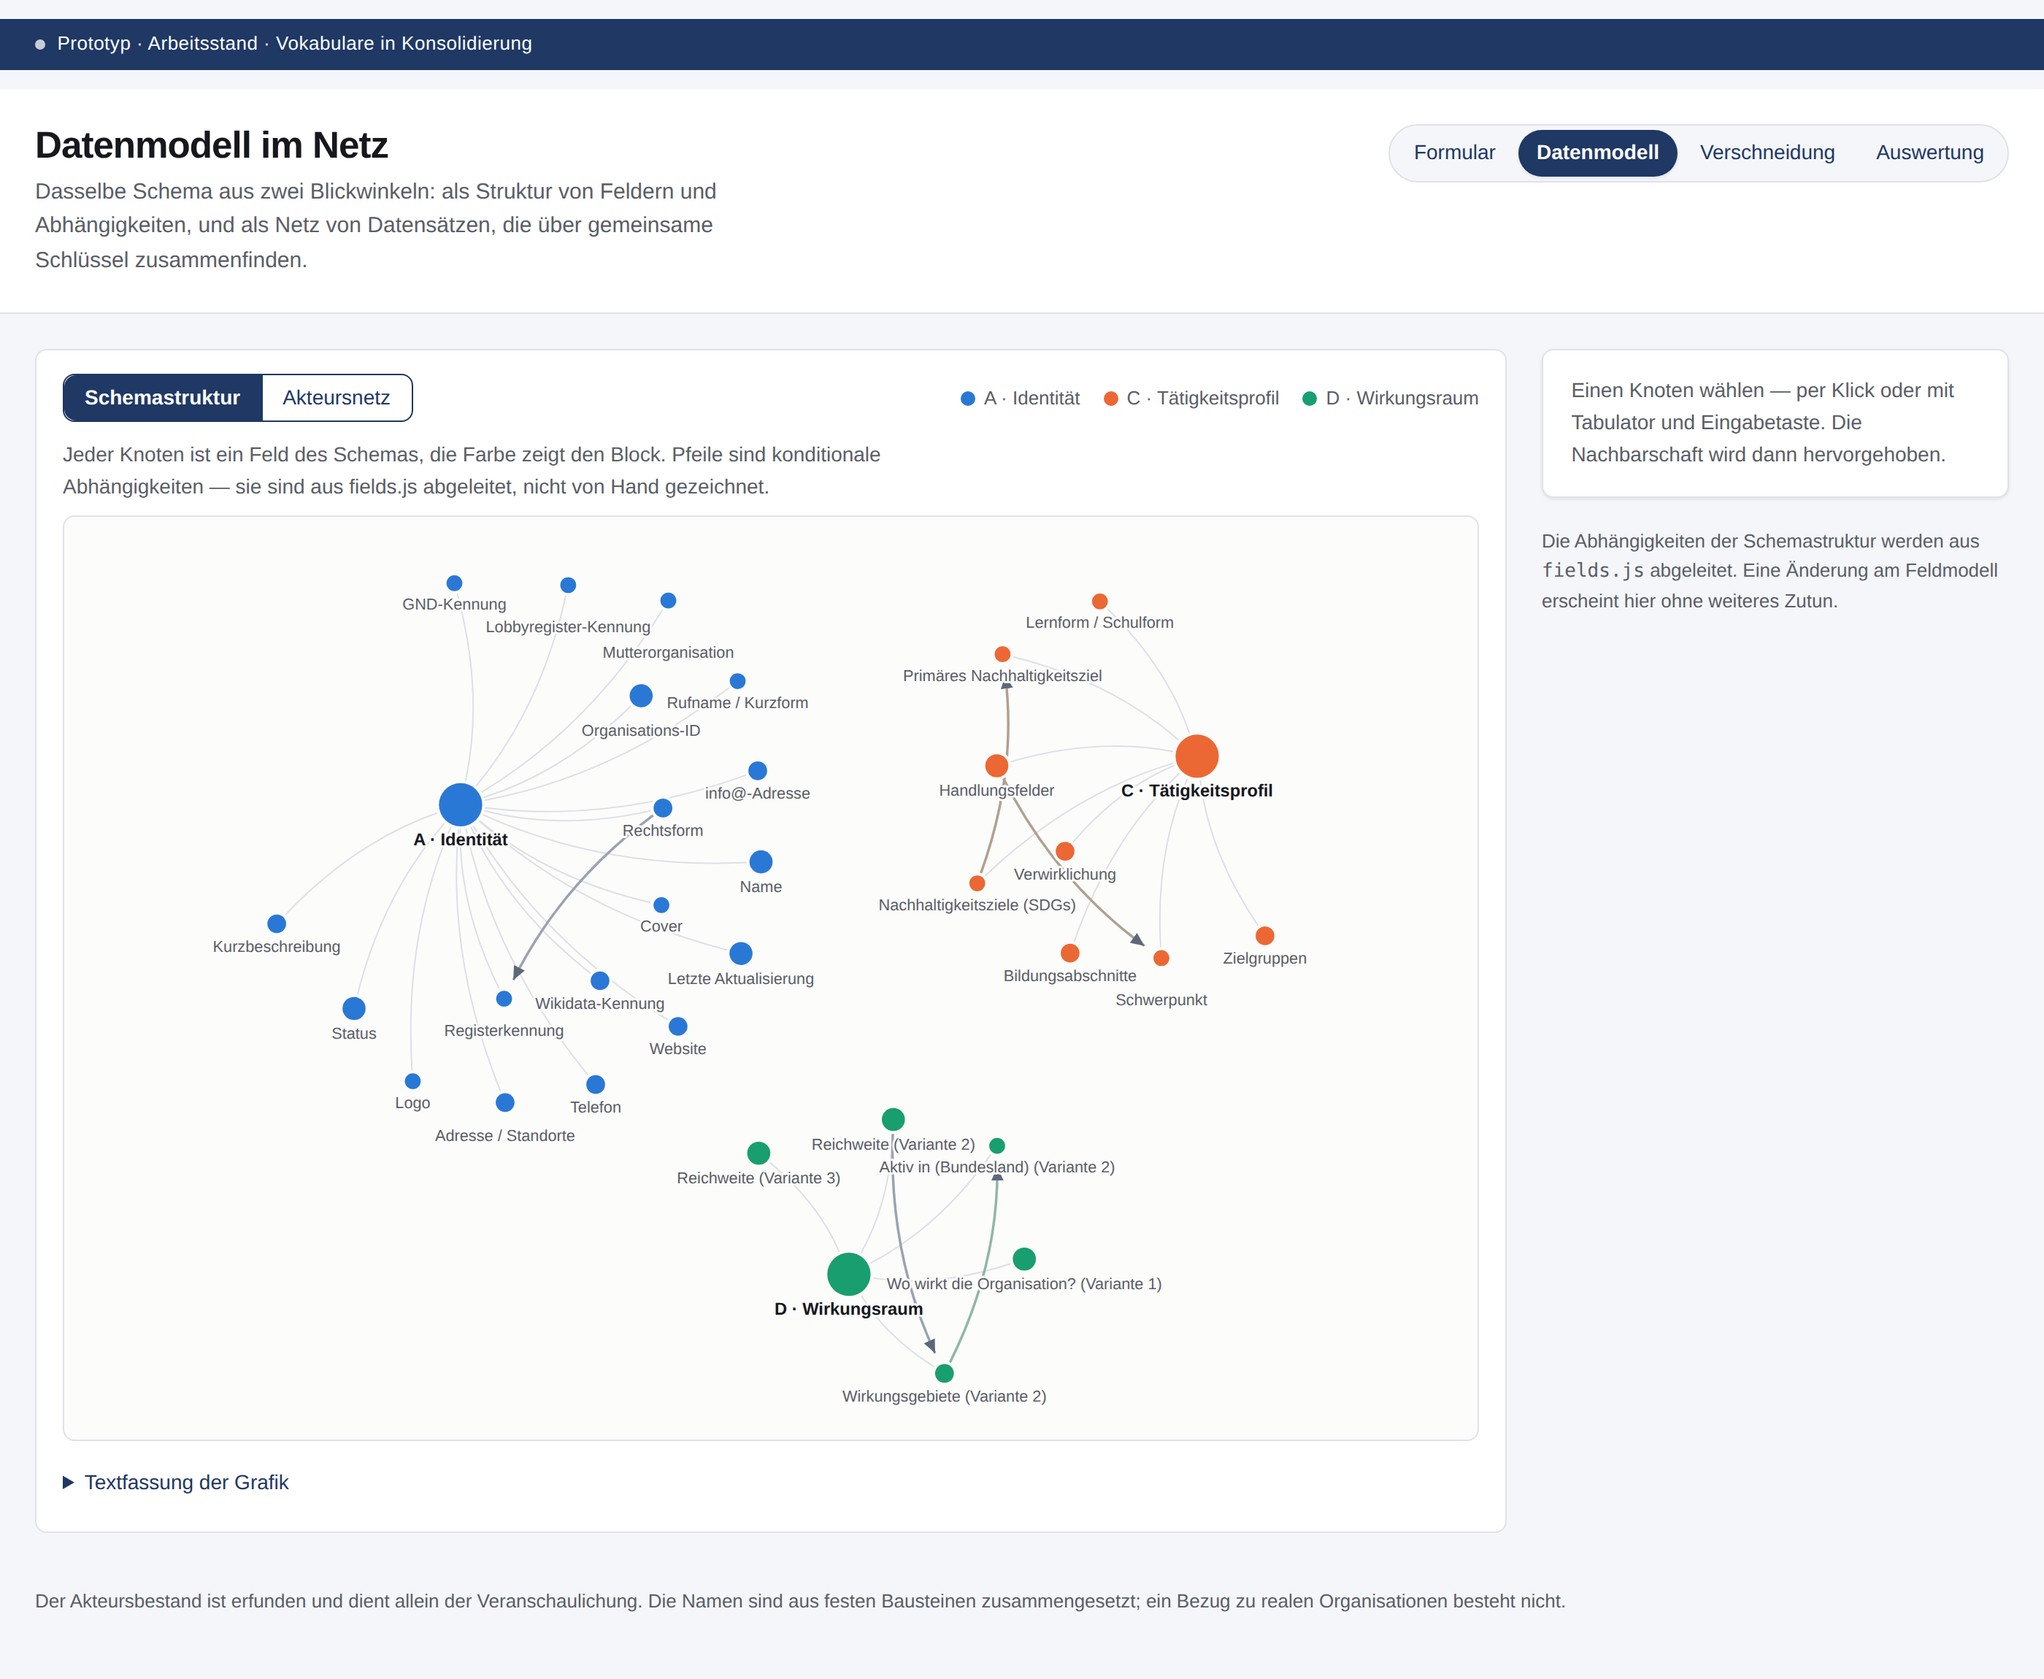
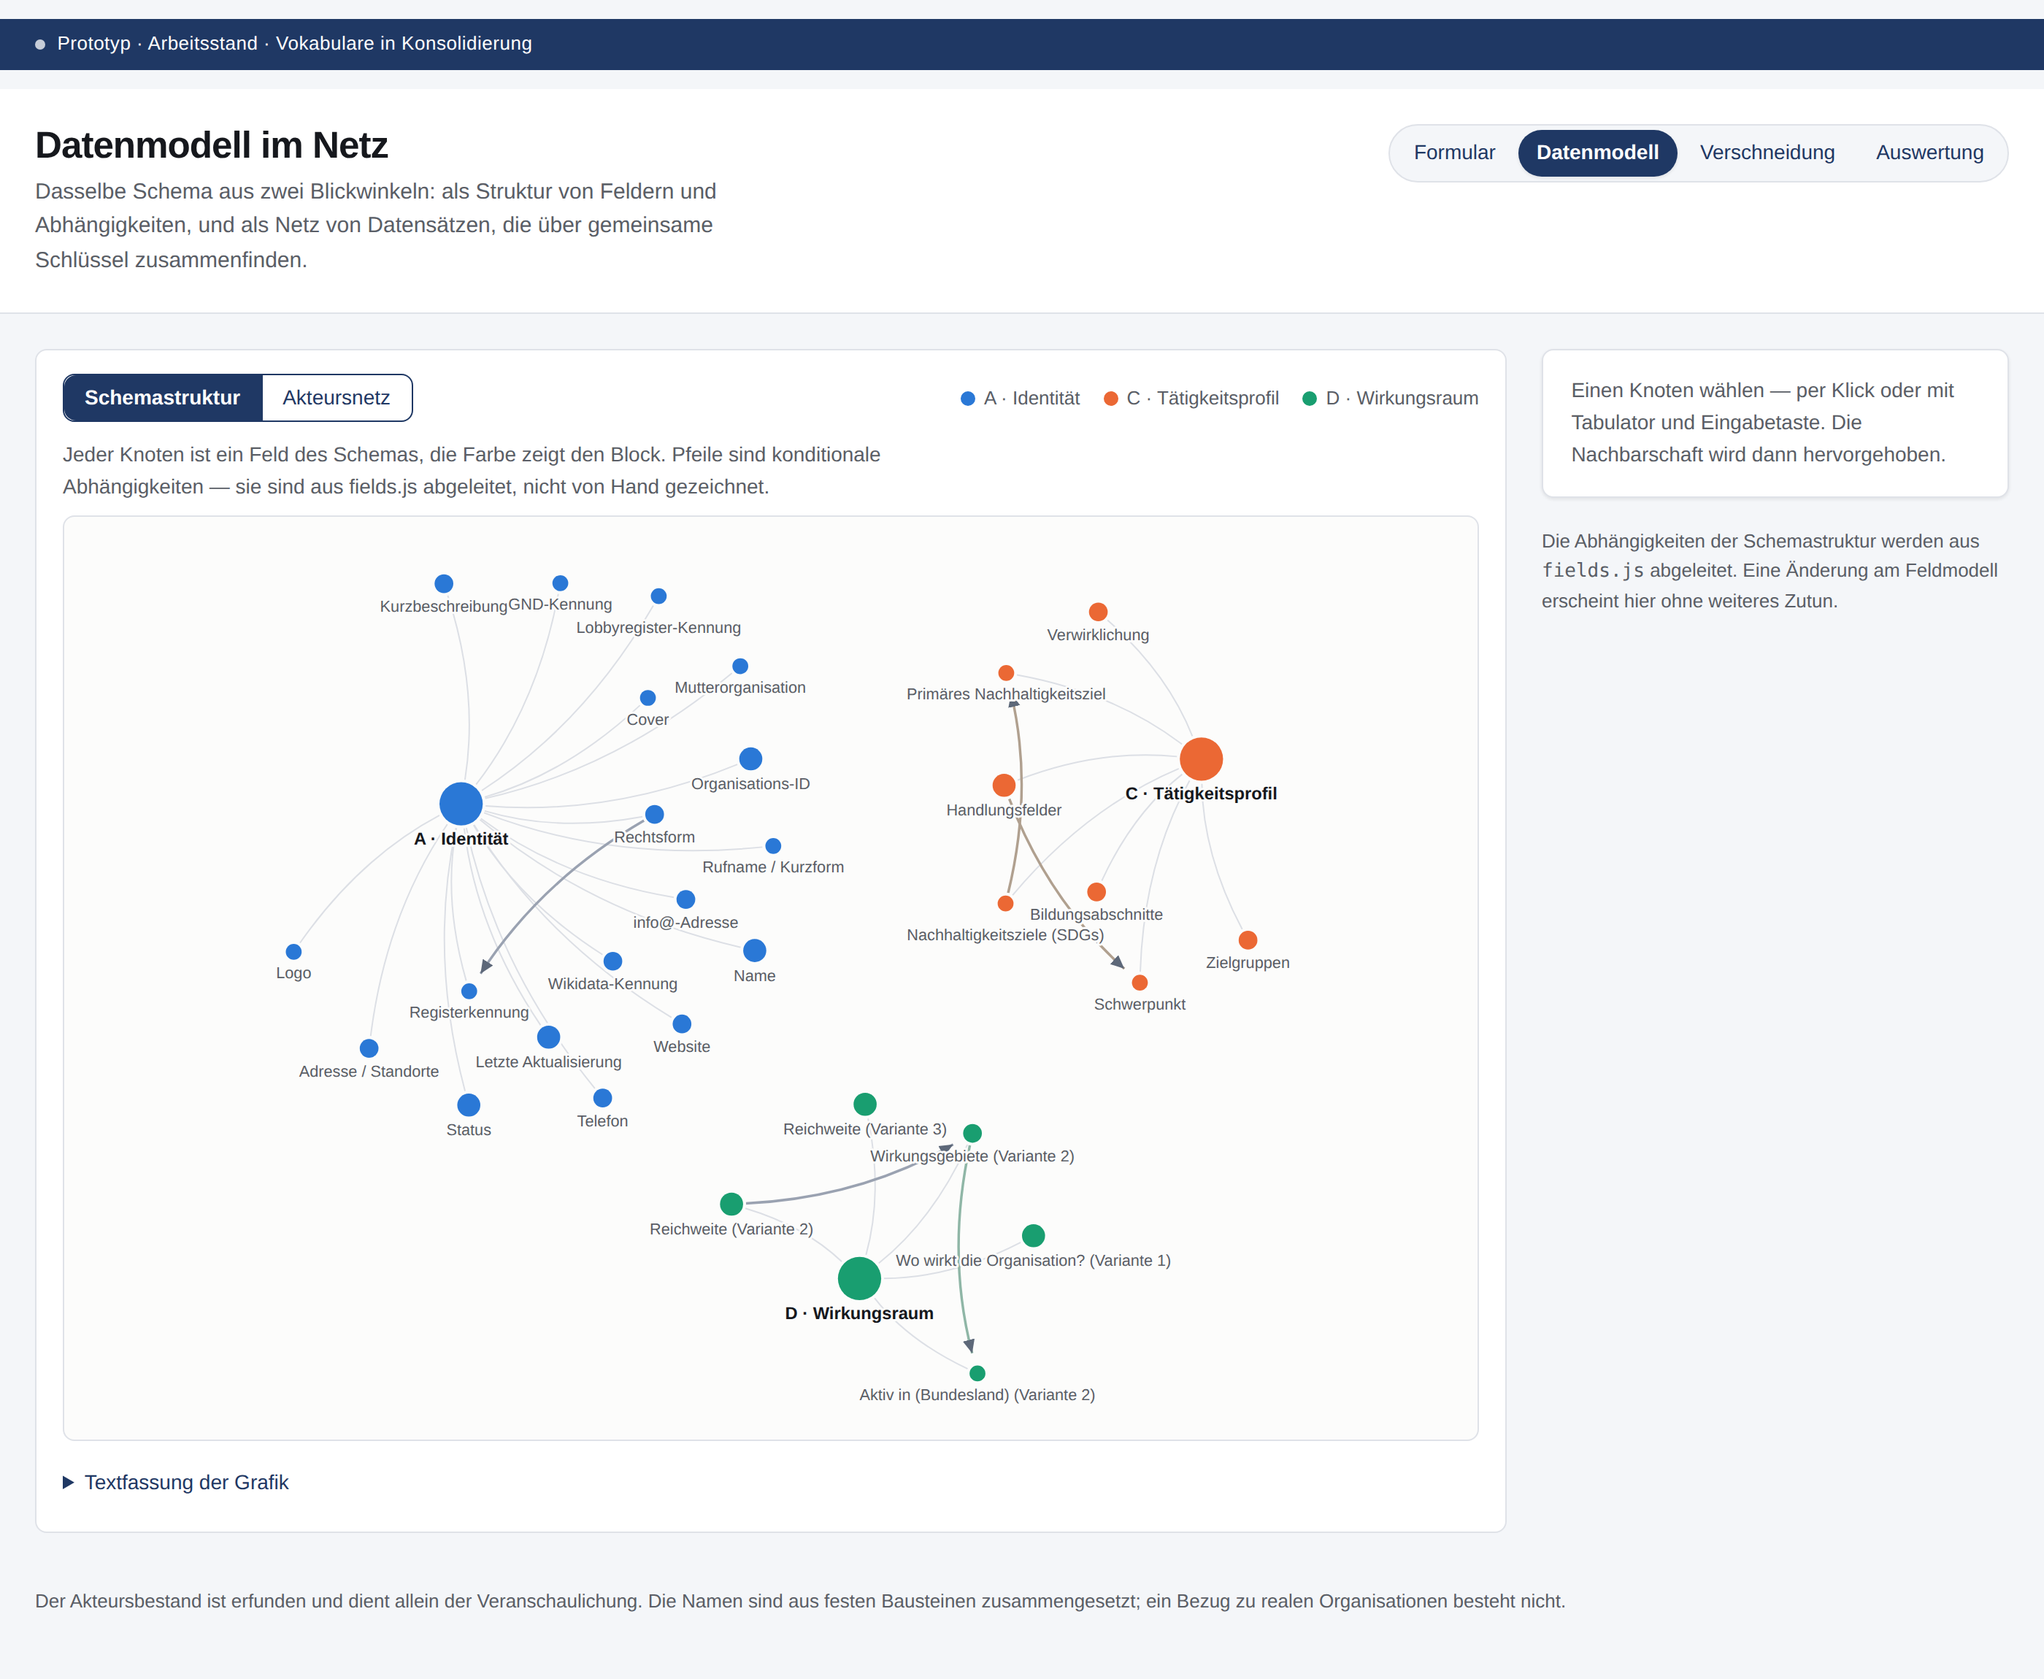
Rueckmeldung aus der Arbeitsgruppe einarbeiten
Feld "Lernform / Schulform" entfernt. Es war ein Vorschlag aus der
Vokabularrecherche und nicht Gegenstand eines Workshops; im Sachstand taucht
es nicht auf. Kein Datensatz und kein Beispiel hat darauf verwiesen. Die
Werteliste liegt unter vocab/archiv/, falls die Frage wiederkommt.

Gebietsliste bei Variante 2 repariert. Beim eigenen Ausfuellen stand die
Ueberschrift "Wirkungsgebiete" da, aber kein Eingabefeld darunter; nach dem
Einfuegen eines Beispiels erschienen sie. Ursache war eine Regression aus dem
Einbau der Geografie-Varianten: Die Variantenpruefung setzte die Sichtbarkeit
in beide Richtungen und ueberschrieb damit die Bedingung des Feldes, die die
Liste erst ab einer gewaehlten Reichweite zeigt. Jetzt blendet die Variante
nur aus, nie ein. Das Reichweitenfeld nennt die Abhaengigkeit im Hinweis.

Zwei weitere Punkte sind festgehalten statt entschieden, weil beide
Festlegungen der Arbeitsgruppe zustehen:

Die Zielgruppenbezeichnung bleibt Freitext. Eine Auswahlliste waere die
Entscheidung ueber ein Vokabular, das der Sachstand ausdruecklich offen
fuehrt. Das Feld traegt jetzt das Kennzeichen "noch zu entscheiden" und nennt
die beiden konkreten Fragen im Hinweistext.

Die Zuordnung von "Uebergang Schule - Beruf" bleibt unveraendert. Der Hinweis,
sie entspreche dem Uebergang in den Tertiaerbereich, steht als offener Punkt
im Crosswalk — moeglich ist auch, dass der eine Wert aus Modell A beide
Uebergaenge aus Modell B zusammenfasst.
[…]

diff --git a/prototype/fields.js b/prototype/fields.js
@@ -60,7 +60,6 @@
       mitUebergaengen: false
     }
   ];
-  var LERNFORMEN = vok('lernformen');
   var ZIELGRUPPENROLLEN = vok('zielgruppenrollen');
   var SDGS = vok('sdg');
   var VERWIRKLICHUNG = vok('verwirklichung');
@@ -401,9 +400,17 @@
             kurz: 'Zielgruppen',
             type: 'repeatable',
             requirement: 'E',
+            // Das Feld ist aufgenommen, sein Vokabular aber nicht entschieden.
+            // Die Bezeichnung bleibt deshalb Freitext: Eine Auswahlliste waere
+            // eine Festlegung, und die steht der Arbeitsgruppe zu, nicht dem
+            // Prototyp.
+            pending: true,
             help: 'Erfasst wird die Primärzielgruppe: wer unmittelbar beteiligt ist, nicht wo mittelbar Wirkung entsteht.',
             note: 'Eine Person kann mehrere Rollen haben. Maßgeblich ist, in welcher Rolle sie an eurem '
-              + 'Angebot teilnimmt — „Lehrkräfte und Kinder“ sind zwei Einträge.',
+              + 'Angebot teilnimmt — „Lehrkräfte und Kinder“ sind zwei Einträge. '
+              + 'Offen ist, ob die Bezeichnung eine Auswahlliste statt Freitext wird — und ob '
+              + 'Institutionen wie Schulen eine eigene Rolle bleiben oder mit den übrigen '
+              + 'zusammengefasst werden.',
             entryLabel: 'Zielgruppe',
             addLabel: 'Zielgruppe hinzufügen',
             subfields: [
@@ -444,16 +451,6 @@
             help: 'Auf welches der gewählten Ziele zahlt die Arbeit am deutlichsten ein?',
             optionsFrom: 'sdgs',
             emptyHint: 'Bitte zuerst Nachhaltigkeitsziele auswählen.'
-          },
-          {
-            key: 'learningFormats',
-            label: 'Lernform / Schulform',
-            type: 'checkboxes',
-            requirement: 'O',
-            proposal: true,
-            vokabular: 'lernformen',
-            help: 'Keine Bildungsphase, sondern die Form des Lernens oder die Schulform. Getrennt geführt, damit die Phasenachse eindeutig bleibt.',
-            options: LERNFORMEN
           },
           {
             key: 'implementation',
@@ -519,7 +516,8 @@
             requirement: 'P',
             variante: 2,
             help: 'Wie weit reicht die Arbeit räumlich?',
-            note: 'Gebiet und Reichweite sind nicht dasselbe: Wer in Bonn tätig ist, ist nicht automatisch landesweit tätig.',
+            note: 'Gebiet und Reichweite sind nicht dasselbe: Wer in Bonn tätig ist, ist nicht automatisch '
+              + 'landesweit tätig. Bei lokal, regional und landesweit erscheint darunter eine Gebietsliste.',
             options: REICHWEITEN
           },
           {
@@ -719,7 +717,6 @@
     // Auswertungsachse: die Bildungsbereiche. Sie sind die Leitachse des
     // Crosswalks und tragen als einzige eine ISCED-Entsprechung.
     bildungsbereiche: BILDUNGSMODELLE[0].options,
-    lernformen: LERNFORMEN,
     zielgruppenrollen: ZIELGRUPPENROLLEN,
     sdgs: SDGS,
     verwirklichung: VERWIRKLICHUNG,

diff --git a/prototype/app.js b/prototype/app.js
@@ -2199,13 +2199,34 @@
       }
 
       /*
-       * Zuletzt: Gehoert das Feld zu einer Variante, entscheidet die Variante.
-       * Sie hat Vorrang vor allem, was die Typbehandlung gesetzt hat — sonst
-       * blendet etwa die Gebietswarnung ein Feld wieder ein, das gar nicht
-       * zur laufenden Variante gehoert.
+       * Zuletzt: Gehoert das Feld zu einer fremden Variante, wird es
+       * ausgeblendet — das hat Vorrang vor allem, was die Typbehandlung
+       * gesetzt hat. Gehoert es zur laufenden Variante, wird es hier aber
+       * *nicht* eingeblendet: Darueber entscheidet weiter die eigene
+       * Bedingung des Feldes.
+       *
+       * Die frühere Fassung setzte hidden in beide Richtungen und hat damit
+       * die Gebietsliste sichtbar gelassen, obwohl noch keine Reichweite
+       * gewaehlt war. Zu sehen war dann eine Ueberschrift ohne ein einziges
+       * Eingabefeld darunter.
        */
-      if (feld.variante) {
-        ref.wrapper.hidden = feld.variante !== varianteVon(blockVon(feld));
+      if (feld.variante && feld.type !== 'repeatable') {
+        ref.wrapper.hidden = feld.variante !== varianteVon(blockVon(feld))
+          // Fremde Variante: ausblenden, unabhaengig von allem anderen.
+          ? true
+          // Eigene Variante: Ueber die Sichtbarkeit entscheidet weiter die
+          // Bedingung des Feldes. Hat es keine, ist es schlicht sichtbar.
+          : !istSichtbar(feld);
+      }
+
+      /*
+       * Wiederholte Felder blenden sich selbst ein und aus — etwa die
+       * Gebietsliste, die von der Reichweite abhaengt. Hier wird deshalb nur
+       * die fremde Variante ausgeblendet, nie etwas eingeblendet.
+       */
+      if (feld.variante && feld.type === 'repeatable'
+          && feld.variante !== varianteVon(blockVon(feld))) {
+        ref.wrapper.hidden = true;
       }
     });
 

diff --git a/prototype/vocab/crosswalk-bildungsabschnitte.js b/prototype/vocab/crosswalk-bildungsabschnitte.js
@@ -180,6 +180,13 @@ EduVocab.register({
         ],
         "entsprichtModellA": "uebergang_schule_beruf"
       }
+    ],
+    "offenePunkte": [
+      {
+        "punkt": "Zuordnung von „Übergang Schule – Beruf\" zu den Bereichen",
+        "beschreibung": "Dieses Vokabular ordnet den Modell-A-Wert „Übergang Schule – Beruf\" dem Übergang sek2_erwerbstaetigkeit zu; sek2_tertiaer hat keine Entsprechung in Modell A. Aus der Arbeitsgruppe kam die Rückmeldung, dass „Übergang Schule – Beruf\" auch den Übergang von der Sekundarstufe II in den Tertiärbereich abdecke. Beides ist vertretbar: Im deutschen Sprachgebrauch meint „Schule – Beruf\" überwiegend den Weg in Ausbildung und Erwerbstätigkeit, der Weg in ein Studium wird meist getrennt benannt. Möglich ist auch, dass der eine Wert aus Modell A beide Übergänge aus Modell B zusammenfasst — dann wäre die Rückübersetzung mehrdeutig. Die Zuordnung bleibt unverändert, bis die Arbeitsgruppe entschieden hat.",
+        "herkunft": "Rückmeldung aus der Arbeitsgruppe, 15.09.2026"
+      }
     ]
   }
 });

diff --git a/prototype/index.html b/prototype/index.html
@@ -108,7 +108,6 @@
 <script src="vocab/icnpo-gruppen.js"></script>
 <script src="vocab/bildungsstruktur-bereiche.js"></script>
 <script src="vocab/bildungsabschnitte-lebenslang.js"></script>
-<script src="vocab/lernformen.js"></script>
 <script src="vocab/isced-2011.js"></script>
 <script src="vocab/reichweite.js"></script>
 <script src="vocab/reichweite-grob.js"></script>

diff --git a/prototype/simulation.html b/prototype/simulation.html
@@ -107,7 +107,6 @@
 <script src="vocab/icnpo-gruppen.js"></script>
 <script src="vocab/bildungsstruktur-bereiche.js"></script>
 <script src="vocab/bildungsabschnitte-lebenslang.js"></script>
-<script src="vocab/lernformen.js"></script>
 <script src="vocab/isced-2011.js"></script>
 <script src="vocab/reichweite.js"></script>
 <script src="vocab/reichweite-grob.js"></script>

diff --git a/prototype/auswertung.html b/prototype/auswertung.html
@@ -53,7 +53,6 @@
 <script src="vocab/icnpo-gruppen.js"></script>
 <script src="vocab/bildungsstruktur-bereiche.js"></script>
 <script src="vocab/bildungsabschnitte-lebenslang.js"></script>
-<script src="vocab/lernformen.js"></script>
 <script src="vocab/isced-2011.js"></script>
 <script src="vocab/reichweite.js"></script>
 <script src="vocab/reichweite-grob.js"></script>

diff --git a/prototype/schema.html b/prototype/schema.html
@@ -90,7 +90,6 @@
 <script src="vocab/icnpo-gruppen.js"></script>
 <script src="vocab/bildungsstruktur-bereiche.js"></script>
 <script src="vocab/bildungsabschnitte-lebenslang.js"></script>
-<script src="vocab/lernformen.js"></script>
 <script src="vocab/isced-2011.js"></script>
 <script src="vocab/reichweite.js"></script>
 <script src="vocab/reichweite-grob.js"></script>

diff --git a/prototype/CHANGELOG.md b/prototype/CHANGELOG.md
@@ -7,6 +7,47 @@ Format: Datum · Datei · Änderung · Quelle.
 
 ---
 
+## 2026-09-16 · Rückmeldung aus der Arbeitsgruppe
+
+Vier Punkte aus einer Rückmeldung zum Prototyp. Zwei umgesetzt, zwei
+festgehalten statt entschieden.
+
+### Umgesetzt
+
+- **Feld „Lernform / Schulform" entfernt** · Es war ein Vorschlag aus der
+  Vokabularrecherche und nicht Gegenstand eines Workshops; im Sachstand
+  taucht es nicht auf. Auf Rückmeldung entfernt. Kein Datensatz und kein
+  Beispiel hat darauf verwiesen. `lernformen.json` liegt unter
+  `vocab/archiv/`, falls die Frage wiederkommt.
+- **Gebietsliste bei Variante 2** · Beim eigenen Ausfüllen stand die
+  Überschrift „Wirkungsgebiete" da, aber kein Eingabefeld darunter; nach dem
+  Einfügen eines Beispiels erschienen sie. Ursache war eine Regression aus
+  dem Einbau der Geografie-Varianten: Die Variantenprüfung setzte die
+  Sichtbarkeit in beide Richtungen und hat damit die Bedingung des Feldes
+  überschrieben, die die Liste erst ab einer gewählten Reichweite zeigt.
+  Jetzt blendet die Variante nur aus, nie ein. Zusätzlich nennt das
+  Reichweitenfeld die Abhängigkeit im Hinweistext.
+
+### Festgehalten, nicht entschieden
+
+- **Zielgruppen als Auswahlliste** · Rückmeldung: Die Bezeichnung wäre besser
+  eine Auswahl als Freitext; außerdem sei das Wechseln zwischen den Rollen
+  schwierig, und es stelle sich die Frage, ob Institutionen wie Schulen eine
+  Zielgruppe sein können. Das Vokabular ist laut Sachstand ausdrücklich
+  offen — eine Auswahlliste wäre die Entscheidung, nicht ihre Vorbereitung.
+  Das Feld trägt jetzt das Kennzeichen „noch zu entscheiden" und nennt beide
+  Fragen im Hinweistext; im README stehen sie bei der offenen Frage zum
+  Zielgruppenvokabular.
+- **Übergang Schule – Beruf** · Rückmeldung: Der Übergang Sekundarstufe II →
+  Tertiärbereich entspreche „Schule – Beruf". Dieses Vokabular ordnet
+  „Schule – Beruf" bisher `sek2_erwerbstaetigkeit` zu, `sek2_tertiaer` hat
+  keine Entsprechung in Modell A. Beides ist vertretbar; möglich ist auch,
+  dass der eine Wert aus Modell A beide Übergänge zusammenfasst. Die
+  Zuordnung bleibt unverändert, der Punkt steht unter
+  `uebergaenge.offenePunkte` im Crosswalk.
+
+---
+
 ## 2026-09-15 · Chips und Feinschliff der Oberfläche
 
 ### Chips

diff --git a/prototype/VOKABULARSTAND.md b/prototype/VOKABULARSTAND.md
@@ -66,7 +66,13 @@ node tools/validate.mjs                        prüft den Beispieldatensatz
 | `verwirklichung.json` | 0.1.0 | 3 | Festlegung der Arbeitsgruppe KKAB | 2026-09-15 | unbestaetigt | — |
 | `zielgruppenrollen.json` | 0.2.0 | 5 | Festlegung der Arbeitsgruppe KKAB, erweitert | 2026-09-15 | unbestaetigt | Zwei Rollen deprecated, weil sie keine Teilnahmerolle beschreiben |
 
-Nicht mehr geladen, aber erhalten: `vocab/archiv/crosswalks-v0.1.json`. Die
+Nicht mehr geladen, aber erhalten: `vocab/archiv/lernformen-v0.1.json`. Das
+Feld „Lernform / Schulform" war ein Vorschlag aus der Vokabularrecherche und
+nicht Gegenstand eines Workshops; auf Rückmeldung aus der Arbeitsgruppe ist
+es aus dem Feldmodell entfernt worden. Die Werteliste bleibt erhalten, falls
+die Frage wiederkommt.
+
+Ebenso nicht mehr geladen: `vocab/archiv/crosswalks-v0.1.json`. Die
 Datei enthält den dokumentierten Prüflauf gegen openeduhub vom 15.09.2026,
 einschließlich der dort festgestellten Abweichungen zur Zuordnung der
 Arbeitsgruppe. Sie folgt den alten Schlüsseln und wird deshalb nicht mehr

diff --git a/README.md b/README.md
@@ -197,7 +197,11 @@ Sechs Punkte, zu denen die Arbeitsgruppe noch keine tragfähige Antwort hat:
    und welche wird für Auswertungen tatsächlich gebraucht?
 3. **Zielgruppenvokabular.** Wie lassen sich Zielgruppen so fassen, dass sie
    über Organisationstypen hinweg vergleichbar bleiben, ohne zu grob zu
-   werden?
+   werden? Aus der Erprobung am Formular kamen dazu zwei konkrete Fragen:
+   Soll die Bezeichnung eine Auswahlliste statt Freitext werden? Und können
+   Institutionen wie Schulen eine eigene Rolle bleiben, oder werden die
+   Rollen zusammengefasst? Solange das offen ist, bleibt das Feld Freitext —
+   eine Auswahlliste wäre bereits die Entscheidung.
 4. **Handlungsfelder.** Die 23 Begriffe sind nicht alle dieselbe Art von
    Kategorie; Diversität und Inklusion überschneiden sich; ein Feld für
    Interessenvertretung fehlt.
